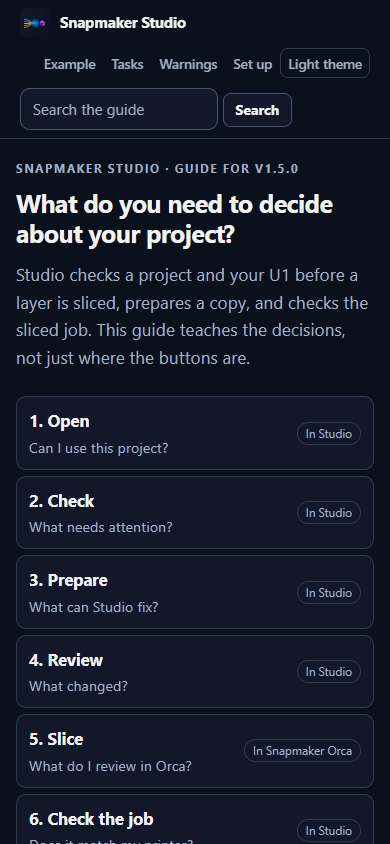
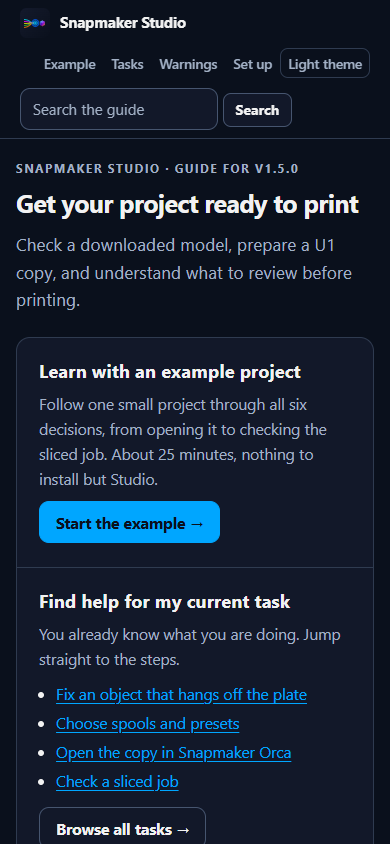
docs(guide): polish home page and workflow map
- Home: concrete heading and description; the three entry points come
  before the workflow map; on phones the map is folded behind a button
  and its seven stages stay reachable.
- Workflow map: fixed pixel lane geometry, lane labels clear of markers,
  connecting line routed so it never crosses stage text; e2e now fails on
  any overlap (also with a wide fallback font).

Verified: check.mjs 49/49; e2e.mjs 1454/1454 (Edge, desktop + phone, both themes).

diff --git a/site/guide/public/index.html b/site/guide/public/index.html
@@ -39,24 +39,24 @@
 <article class="page home" id="home" data-page="home" data-type="home" aria-labelledby="home-h">
   <header class="home-head">
     <p class="eyebrow">Snapmaker Studio · guide for v1.5.0</p>
-    <h2 class="ptitle" id="home-h" tabindex="-1">What do you need to decide about your project?</h2>
-    <p class="lead">Studio checks a project and your U1 before a layer is sliced, prepares a copy, and checks the sliced job. This guide teaches the decisions, not just where the buttons are.</p>
+    <h2 class="ptitle" id="home-h" tabindex="-1">Get your project ready to print</h2>
+    <p class="lead">Check a downloaded model, prepare a U1 copy, and understand what to review before printing.</p>
   </header>
-  <section class="home-map" aria-label="The whole job"><h3 class="vh">The whole job</h3><nav class="wfmap" aria-label="The job, stage by stage: Studio, then Snapmaker Orca, then Studio again, then your printer">
+  <section class="doors" aria-label="Where to start">
+    <div class="door door-example"><h3>Learn with an example project</h3><p>Follow one small project through all six decisions, from opening it to checking the sliced job. About 25 minutes, nothing to install but Studio.</p><a class="btn btn-primary js-nav" href="#path-open">Start the example →</a></div><div class="door door-task"><h3>Find help for my current task</h3><p>You already know what you are doing. Jump straight to the steps.</p><ul><li><a href="#task-move-onto-plate">Fix an object that hangs off the plate</a></li><li><a href="#task-project-materials">Choose spools and presets</a></li><li><a href="#task-open-in-orca">Open the copy in Snapmaker Orca</a></li><li><a href="#task-check-sliced-job">Check a sliced job</a></li></ul><a class="btn  js-nav" href="#tasks">Browse all tasks →</a></div><div class="door door-problem"><h3>Understand a warning or problem</h3><p>Studio is careful about what it knows. Look up what a message means and how sure Studio is.</p><ul><li><a href="#problem-studio-cant-tell">“Studio can’t tell”</a></li><li><a href="#problem-needs-attention">NEEDS ATTENTION</a></li><li><a href="#problem-printer-not-found">Printer not found</a></li><li><a href="#problem-manual-check-in-orca">Manual check in Orca required</a></li></ul><a class="btn  js-nav" href="#problems">See all warnings →</a></div>
+  </section>
+  <section class="home-map" aria-label="The whole job"><details class="map-fold" open><summary>See the whole job<small>Studio, Snapmaker Orca and your printer, stage by stage</small></summary><nav class="wfmap" aria-label="The job, stage by stage: Studio, then Snapmaker Orca, then Studio again, then your printer">
   <div class="wf-board">
     <div class="wf-lane wf-lane-studio"><span>In Studio</span></div><div class="wf-lane wf-lane-orca"><span>In Snapmaker Orca</span></div><div class="wf-lane wf-lane-printer"><span>At the printer</span></div>
-    <svg class="wf-svg" viewBox="0 0 1000 250" preserveAspectRatio="none" aria-hidden="true" focusable="false">
-      <path d="M 0 34 C 40 34, 52 62, 74 62" stroke="#00E1FF" stroke-width="2" fill="none" opacity=".85" vector-effect="non-scaling-stroke"/><path d="M 0 43 C 40 43, 52 62, 74 62" stroke="#FF00FF" stroke-width="2" fill="none" opacity=".85" vector-effect="non-scaling-stroke"/><path d="M 0 52 C 40 52, 52 62, 74 62" stroke="#FFFF00" stroke-width="2" fill="none" opacity=".85" vector-effect="non-scaling-stroke"/><path d="M 0 61 C 40 61, 52 62, 74 62" stroke="#0000FF" stroke-width="2" fill="none" opacity=".85" vector-effect="non-scaling-stroke"/><path d="M 0 70 C 40 70, 52 62, 74 62" stroke="#32CD32" stroke-width="2" fill="none" opacity=".85" vector-effect="non-scaling-stroke"/><path d="M 0 79 C 40 79, 52 62, 74 62" stroke="#FF8500" stroke-width="2" fill="none" opacity=".85" vector-effect="non-scaling-stroke"/><path d="M 0 88 C 40 88, 52 62, 74 62" stroke="#8F00FF" stroke-width="2" fill="none" opacity=".85" vector-effect="non-scaling-stroke"/>
-      <path class="wf-line" d="M 96 62 L 236 62 L 376 62 L 516 62 C 592 62, 592 125, 668 125 C 734 125, 734 62, 800 62 C 861 62, 861 188, 922 188" fill="none" vector-effect="non-scaling-stroke"/>
+    <svg class="wf-svg" viewBox="0 0 1000 420" preserveAspectRatio="none" aria-hidden="true" focusable="false">
+      <path d="M 0 16 C 40 16, 52 43, 74 43" stroke="#00E1FF" stroke-width="2" fill="none" opacity=".85" vector-effect="non-scaling-stroke"/><path d="M 0 25 C 40 25, 52 43, 74 43" stroke="#FF00FF" stroke-width="2" fill="none" opacity=".85" vector-effect="non-scaling-stroke"/><path d="M 0 34 C 40 34, 52 43, 74 43" stroke="#FFFF00" stroke-width="2" fill="none" opacity=".85" vector-effect="non-scaling-stroke"/><path d="M 0 43 C 40 43, 52 43, 74 43" stroke="#0000FF" stroke-width="2" fill="none" opacity=".85" vector-effect="non-scaling-stroke"/><path d="M 0 52 C 40 52, 52 43, 74 43" stroke="#32CD32" stroke-width="2" fill="none" opacity=".85" vector-effect="non-scaling-stroke"/><path d="M 0 61 C 40 61, 52 43, 74 43" stroke="#FF8500" stroke-width="2" fill="none" opacity=".85" vector-effect="non-scaling-stroke"/><path d="M 0 70 C 40 70, 52 43, 74 43" stroke="#8F00FF" stroke-width="2" fill="none" opacity=".85" vector-effect="non-scaling-stroke"/>
+      <path class="wf-line" d="M 96 43 L 236 43 L 376 43 L 516 43 L 623 43 C 645 43, 646 183, 668 183 C 690 183, 691 43, 713 43 L 800 43 L 877 43 C 899 43, 900 323, 922 323" fill="none" vector-effect="non-scaling-stroke"/>
     </svg>
     <a class="wf-node wf-studio wf-p0" href="#path-open" data-stage="open"><span class="wf-n" aria-hidden="true">1</span><span class="wf-t">Open</span><span class="wf-q">Can I use this project?</span></a><a class="wf-node wf-studio wf-p1" href="#path-check" data-stage="check"><span class="wf-n" aria-hidden="true">2</span><span class="wf-t">Check</span><span class="wf-q">What needs attention?</span></a><a class="wf-node wf-studio wf-p2" href="#path-prepare" data-stage="prepare"><span class="wf-n" aria-hidden="true">3</span><span class="wf-t">Prepare</span><span class="wf-q">What can Studio fix?</span></a><a class="wf-node wf-studio wf-p3" href="#path-review" data-stage="review"><span class="wf-n" aria-hidden="true">4</span><span class="wf-t">Review</span><span class="wf-q">What changed?</span></a><a class="wf-node wf-orca wf-p4" href="#path-orca" data-stage="orca"><span class="wf-n" aria-hidden="true">5</span><span class="wf-t">Slice</span><span class="wf-q">What do I review in Orca?</span></a><a class="wf-node wf-studio wf-p5" href="#path-job" data-stage="job"><span class="wf-n" aria-hidden="true">6</span><span class="wf-t">Check the job</span><span class="wf-q">Does it match my printer?</span></a><a class="wf-node wf-printer wf-p6" href="#task-printer-controls" data-stage="print"><span class="wf-n" aria-hidden="true">★</span><span class="wf-t">Print</span><span class="wf-q">You, at the printer</span></a>
   </div>
   <ol class="wf-list"><li><a href="#path-open"><b>1. Open</b> <span>Can I use this project?</span> <i>In Studio</i></a></li><li><a href="#path-check"><b>2. Check</b> <span>What needs attention?</span> <i>In Studio</i></a></li><li><a href="#path-prepare"><b>3. Prepare</b> <span>What can Studio fix?</span> <i>In Studio</i></a></li><li><a href="#path-review"><b>4. Review</b> <span>What changed?</span> <i>In Studio</i></a></li><li><a href="#path-orca"><b>5. Slice</b> <span>What do I review in Orca?</span> <i>In Snapmaker Orca</i></a></li><li><a href="#path-job"><b>6. Check the job</b> <span>Does it match my printer?</span> <i>In Studio</i></a></li><li><a href="#task-printer-controls"><b>★. Print</b> <span>You, at the printer</span> <i>At the printer</i></a></li></ol>
-</nav>
+</nav></details>
     <p class="map-key">Studio works on your computer. <strong>Snapmaker Orca slices.</strong> You start the print at the printer. Studio never slices and never starts a print on its own.</p></section>
-  <section class="doors" aria-label="Where to start">
-    <div class="door door-example"><h3>Learn with an example project</h3><p>Follow one small project through all six decisions, from opening it to checking the sliced job. About 25 minutes, nothing to install but Studio.</p><a class="btn btn-primary js-nav" href="#path-open">Start the example →</a></div><div class="door door-task"><h3>Find help for my current task</h3><p>You already know what you are doing. Jump straight to the steps.</p><ul><li><a href="#task-move-onto-plate">Fix an object that hangs off the plate</a></li><li><a href="#task-project-materials">Choose spools and presets</a></li><li><a href="#task-open-in-orca">Open the copy in Snapmaker Orca</a></li><li><a href="#task-check-sliced-job">Check a sliced job</a></li></ul><a class="btn  js-nav" href="#tasks">Browse all tasks →</a></div><div class="door door-problem"><h3>Understand a warning or problem</h3><p>Studio is careful about what it knows. Look up what a message means and how sure Studio is.</p><ul><li><a href="#problem-studio-cant-tell">“Studio can’t tell”</a></li><li><a href="#problem-needs-attention">NEEDS ATTENTION</a></li><li><a href="#problem-printer-not-found">Printer not found</a></li><li><a href="#problem-manual-check-in-orca">Manual check in Orca required</a></li></ul><a class="btn  js-nav" href="#problems">See all warnings →</a></div>
-  </section>
   <section class="home-foot" aria-label="Before you start">
     <div><h3>Not installed yet?</h3><p><a href="#setup">Install and open Studio</a> — about ten minutes. If Studio is already installed, skip it: the example starts from opening a file.</p></div>
     <div><h3>Optional tools</h3><p>Cost, scale, print quality, batch, model sites and spool providers are under <a href="#tasks">Tasks</a>, marked optional, so they never interrupt the main path.</p></div>
@@ -69,9 +69,9 @@
     <nav class="wfmap compact" aria-label="The job, stage by stage: Studio, then Snapmaker Orca, then Studio again, then your printer">
   <div class="wf-board">
     <div class="wf-lane wf-lane-studio"><span>In Studio</span></div><div class="wf-lane wf-lane-orca"><span>In Snapmaker Orca</span></div><div class="wf-lane wf-lane-printer"><span>At the printer</span></div>
-    <svg class="wf-svg" viewBox="0 0 1000 250" preserveAspectRatio="none" aria-hidden="true" focusable="false">
-      <path d="M 0 34 C 40 34, 52 62, 74 62" stroke="#00E1FF" stroke-width="2" fill="none" opacity=".85" vector-effect="non-scaling-stroke"/><path d="M 0 43 C 40 43, 52 62, 74 62" stroke="#FF00FF" stroke-width="2" fill="none" opacity=".85" vector-effect="non-scaling-stroke"/><path d="M 0 52 C 40 52, 52 62, 74 62" stroke="#FFFF00" stroke-width="2" fill="none" opacity=".85" vector-effect="non-scaling-stroke"/><path d="M 0 61 C 40 61, 52 62, 74 62" stroke="#0000FF" stroke-width="2" fill="none" opacity=".85" vector-effect="non-scaling-stroke"/><path d="M 0 70 C 40 70, 52 62, 74 62" stroke="#32CD32" stroke-width="2" fill="none" opacity=".85" vector-effect="non-scaling-stroke"/><path d="M 0 79 C 40 79, 52 62, 74 62" stroke="#FF8500" stroke-width="2" fill="none" opacity=".85" vector-effect="non-scaling-stroke"/><path d="M 0 88 C 40 88, 52 62, 74 62" stroke="#8F00FF" stroke-width="2" fill="none" opacity=".85" vector-effect="non-scaling-stroke"/>
-      <path class="wf-line" d="M 96 62 L 236 62 L 376 62 L 516 62 C 592 62, 592 125, 668 125 C 734 125, 734 62, 800 62 C 861 62, 861 188, 922 188" fill="none" vector-effect="non-scaling-stroke"/>
+    <svg class="wf-svg" viewBox="0 0 1000 264" preserveAspectRatio="none" aria-hidden="true" focusable="false">
+      <path d="M 0 6 C 40 6, 52 33, 74 33" stroke="#00E1FF" stroke-width="2" fill="none" opacity=".85" vector-effect="non-scaling-stroke"/><path d="M 0 15 C 40 15, 52 33, 74 33" stroke="#FF00FF" stroke-width="2" fill="none" opacity=".85" vector-effect="non-scaling-stroke"/><path d="M 0 24 C 40 24, 52 33, 74 33" stroke="#FFFF00" stroke-width="2" fill="none" opacity=".85" vector-effect="non-scaling-stroke"/><path d="M 0 33 C 40 33, 52 33, 74 33" stroke="#0000FF" stroke-width="2" fill="none" opacity=".85" vector-effect="non-scaling-stroke"/><path d="M 0 42 C 40 42, 52 33, 74 33" stroke="#32CD32" stroke-width="2" fill="none" opacity=".85" vector-effect="non-scaling-stroke"/><path d="M 0 51 C 40 51, 52 33, 74 33" stroke="#FF8500" stroke-width="2" fill="none" opacity=".85" vector-effect="non-scaling-stroke"/><path d="M 0 60 C 40 60, 52 33, 74 33" stroke="#8F00FF" stroke-width="2" fill="none" opacity=".85" vector-effect="non-scaling-stroke"/>
+      <path class="wf-line" d="M 96 33 L 236 33 L 376 33 L 516 33 L 623 33 C 645 33, 646 121, 668 121 C 690 121, 691 33, 713 33 L 800 33 L 877 33 C 899 33, 900 209, 922 209" fill="none" vector-effect="non-scaling-stroke"/>
     </svg>
     <a class="wf-node wf-studio wf-p0 is-current" href="#path-open" data-stage="open" aria-current="step"><span class="wf-n" aria-hidden="true">1</span><span class="wf-t">Open</span></a><a class="wf-node wf-studio wf-p1" href="#path-check" data-stage="check"><span class="wf-n" aria-hidden="true">2</span><span class="wf-t">Check</span></a><a class="wf-node wf-studio wf-p2" href="#path-prepare" data-stage="prepare"><span class="wf-n" aria-hidden="true">3</span><span class="wf-t">Prepare</span></a><a class="wf-node wf-studio wf-p3" href="#path-review" data-stage="review"><span class="wf-n" aria-hidden="true">4</span><span class="wf-t">Review</span></a><a class="wf-node wf-orca wf-p4" href="#path-orca" data-stage="orca"><span class="wf-n" aria-hidden="true">5</span><span class="wf-t">Slice</span></a><a class="wf-node wf-studio wf-p5" href="#path-job" data-stage="job"><span class="wf-n" aria-hidden="true">6</span><span class="wf-t">Check the job</span></a><a class="wf-node wf-printer wf-p6" href="#task-printer-controls" data-stage="print"><span class="wf-n" aria-hidden="true">★</span><span class="wf-t">Print</span></a>
   </div>
@@ -129,9 +129,9 @@
     <nav class="wfmap compact" aria-label="The job, stage by stage: Studio, then Snapmaker Orca, then Studio again, then your printer">
   <div class="wf-board">
     <div class="wf-lane wf-lane-studio"><span>In Studio</span></div><div class="wf-lane wf-lane-orca"><span>In Snapmaker Orca</span></div><div class="wf-lane wf-lane-printer"><span>At the printer</span></div>
-    <svg class="wf-svg" viewBox="0 0 1000 250" preserveAspectRatio="none" aria-hidden="true" focusable="false">
-      <path d="M 0 34 C 40 34, 52 62, 74 62" stroke="#00E1FF" stroke-width="2" fill="none" opacity=".85" vector-effect="non-scaling-stroke"/><path d="M 0 43 C 40 43, 52 62, 74 62" stroke="#FF00FF" stroke-width="2" fill="none" opacity=".85" vector-effect="non-scaling-stroke"/><path d="M 0 52 C 40 52, 52 62, 74 62" stroke="#FFFF00" stroke-width="2" fill="none" opacity=".85" vector-effect="non-scaling-stroke"/><path d="M 0 61 C 40 61, 52 62, 74 62" stroke="#0000FF" stroke-width="2" fill="none" opacity=".85" vector-effect="non-scaling-stroke"/><path d="M 0 70 C 40 70, 52 62, 74 62" stroke="#32CD32" stroke-width="2" fill="none" opacity=".85" vector-effect="non-scaling-stroke"/><path d="M 0 79 C 40 79, 52 62, 74 62" stroke="#FF8500" stroke-width="2" fill="none" opacity=".85" vector-effect="non-scaling-stroke"/><path d="M 0 88 C 40 88, 52 62, 74 62" stroke="#8F00FF" stroke-width="2" fill="none" opacity=".85" vector-effect="non-scaling-stroke"/>
-      <path class="wf-line" d="M 96 62 L 236 62 L 376 62 L 516 62 C 592 62, 592 125, 668 125 C 734 125, 734 62, 800 62 C 861 62, 861 188, 922 188" fill="none" vector-effect="non-scaling-stroke"/>
+    <svg class="wf-svg" viewBox="0 0 1000 264" preserveAspectRatio="none" aria-hidden="true" focusable="false">
+      <path d="M 0 6 C 40 6, 52 33, 74 33" stroke="#00E1FF" stroke-width="2" fill="none" opacity=".85" vector-effect="non-scaling-stroke"/><path d="M 0 15 C 40 15, 52 33, 74 33" stroke="#FF00FF" stroke-width="2" fill="none" opacity=".85" vector-effect="non-scaling-stroke"/><path d="M 0 24 C 40 24, 52 33, 74 33" stroke="#FFFF00" stroke-width="2" fill="none" opacity=".85" vector-effect="non-scaling-stroke"/><path d="M 0 33 C 40 33, 52 33, 74 33" stroke="#0000FF" stroke-width="2" fill="none" opacity=".85" vector-effect="non-scaling-stroke"/><path d="M 0 42 C 40 42, 52 33, 74 33" stroke="#32CD32" stroke-width="2" fill="none" opacity=".85" vector-effect="non-scaling-stroke"/><path d="M 0 51 C 40 51, 52 33, 74 33" stroke="#FF8500" stroke-width="2" fill="none" opacity=".85" vector-effect="non-scaling-stroke"/><path d="M 0 60 C 40 60, 52 33, 74 33" stroke="#8F00FF" stroke-width="2" fill="none" opacity=".85" vector-effect="non-scaling-stroke"/>
+      <path class="wf-line" d="M 96 33 L 236 33 L 376 33 L 516 33 L 623 33 C 645 33, 646 121, 668 121 C 690 121, 691 33, 713 33 L 800 33 L 877 33 C 899 33, 900 209, 922 209" fill="none" vector-effect="non-scaling-stroke"/>
     </svg>
     <a class="wf-node wf-studio wf-p0" href="#path-open" data-stage="open"><span class="wf-n" aria-hidden="true">1</span><span class="wf-t">Open</span></a><a class="wf-node wf-studio wf-p1 is-current" href="#path-check" data-stage="check" aria-current="step"><span class="wf-n" aria-hidden="true">2</span><span class="wf-t">Check</span></a><a class="wf-node wf-studio wf-p2" href="#path-prepare" data-stage="prepare"><span class="wf-n" aria-hidden="true">3</span><span class="wf-t">Prepare</span></a><a class="wf-node wf-studio wf-p3" href="#path-review" data-stage="review"><span class="wf-n" aria-hidden="true">4</span><span class="wf-t">Review</span></a><a class="wf-node wf-orca wf-p4" href="#path-orca" data-stage="orca"><span class="wf-n" aria-hidden="true">5</span><span class="wf-t">Slice</span></a><a class="wf-node wf-studio wf-p5" href="#path-job" data-stage="job"><span class="wf-n" aria-hidden="true">6</span><span class="wf-t">Check the job</span></a><a class="wf-node wf-printer wf-p6" href="#task-printer-controls" data-stage="print"><span class="wf-n" aria-hidden="true">★</span><span class="wf-t">Print</span></a>
   </div>
@@ -189,9 +189,9 @@
     <nav class="wfmap compact" aria-label="The job, stage by stage: Studio, then Snapmaker Orca, then Studio again, then your printer">
   <div class="wf-board">
     <div class="wf-lane wf-lane-studio"><span>In Studio</span></div><div class="wf-lane wf-lane-orca"><span>In Snapmaker Orca</span></div><div class="wf-lane wf-lane-printer"><span>At the printer</span></div>
-    <svg class="wf-svg" viewBox="0 0 1000 250" preserveAspectRatio="none" aria-hidden="true" focusable="false">
-      <path d="M 0 34 C 40 34, 52 62, 74 62" stroke="#00E1FF" stroke-width="2" fill="none" opacity=".85" vector-effect="non-scaling-stroke"/><path d="M 0 43 C 40 43, 52 62, 74 62" stroke="#FF00FF" stroke-width="2" fill="none" opacity=".85" vector-effect="non-scaling-stroke"/><path d="M 0 52 C 40 52, 52 62, 74 62" stroke="#FFFF00" stroke-width="2" fill="none" opacity=".85" vector-effect="non-scaling-stroke"/><path d="M 0 61 C 40 61, 52 62, 74 62" stroke="#0000FF" stroke-width="2" fill="none" opacity=".85" vector-effect="non-scaling-stroke"/><path d="M 0 70 C 40 70, 52 62, 74 62" stroke="#32CD32" stroke-width="2" fill="none" opacity=".85" vector-effect="non-scaling-stroke"/><path d="M 0 79 C 40 79, 52 62, 74 62" stroke="#FF8500" stroke-width="2" fill="none" opacity=".85" vector-effect="non-scaling-stroke"/><path d="M 0 88 C 40 88, 52 62, 74 62" stroke="#8F00FF" stroke-width="2" fill="none" opacity=".85" vector-effect="non-scaling-stroke"/>
-      <path class="wf-line" d="M 96 62 L 236 62 L 376 62 L 516 62 C 592 62, 592 125, 668 125 C 734 125, 734 62, 800 62 C 861 62, 861 188, 922 188" fill="none" vector-effect="non-scaling-stroke"/>
+    <svg class="wf-svg" viewBox="0 0 1000 264" preserveAspectRatio="none" aria-hidden="true" focusable="false">
+      <path d="M 0 6 C 40 6, 52 33, 74 33" stroke="#00E1FF" stroke-width="2" fill="none" opacity=".85" vector-effect="non-scaling-stroke"/><path d="M 0 15 C 40 15, 52 33, 74 33" stroke="#FF00FF" stroke-width="2" fill="none" opacity=".85" vector-effect="non-scaling-stroke"/><path d="M 0 24 C 40 24, 52 33, 74 33" stroke="#FFFF00" stroke-width="2" fill="none" opacity=".85" vector-effect="non-scaling-stroke"/><path d="M 0 33 C 40 33, 52 33, 74 33" stroke="#0000FF" stroke-width="2" fill="none" opacity=".85" vector-effect="non-scaling-stroke"/><path d="M 0 42 C 40 42, 52 33, 74 33" stroke="#32CD32" stroke-width="2" fill="none" opacity=".85" vector-effect="non-scaling-stroke"/><path d="M 0 51 C 40 51, 52 33, 74 33" stroke="#FF8500" stroke-width="2" fill="none" opacity=".85" vector-effect="non-scaling-stroke"/><path d="M 0 60 C 40 60, 52 33, 74 33" stroke="#8F00FF" stroke-width="2" fill="none" opacity=".85" vector-effect="non-scaling-stroke"/>
+      <path class="wf-line" d="M 96 33 L 236 33 L 376 33 L 516 33 L 623 33 C 645 33, 646 121, 668 121 C 690 121, 691 33, 713 33 L 800 33 L 877 33 C 899 33, 900 209, 922 209" fill="none" vector-effect="non-scaling-stroke"/>
     </svg>
     <a class="wf-node wf-studio wf-p0" href="#path-open" data-stage="open"><span class="wf-n" aria-hidden="true">1</span><span class="wf-t">Open</span></a><a class="wf-node wf-studio wf-p1" href="#path-check" data-stage="check"><span class="wf-n" aria-hidden="true">2</span><span class="wf-t">Check</span></a><a class="wf-node wf-studio wf-p2 is-current" href="#path-prepare" data-stage="prepare" aria-current="step"><span class="wf-n" aria-hidden="true">3</span><span class="wf-t">Prepare</span></a><a class="wf-node wf-studio wf-p3" href="#path-review" data-stage="review"><span class="wf-n" aria-hidden="true">4</span><span class="wf-t">Review</span></a><a class="wf-node wf-orca wf-p4" href="#path-orca" data-stage="orca"><span class="wf-n" aria-hidden="true">5</span><span class="wf-t">Slice</span></a><a class="wf-node wf-studio wf-p5" href="#path-job" data-stage="job"><span class="wf-n" aria-hidden="true">6</span><span class="wf-t">Check the job</span></a><a class="wf-node wf-printer wf-p6" href="#task-printer-controls" data-stage="print"><span class="wf-n" aria-hidden="true">★</span><span class="wf-t">Print</span></a>
   </div>
@@ -290,9 +290,9 @@
     <nav class="wfmap compact" aria-label="The job, stage by stage: Studio, then Snapmaker Orca, then Studio again, then your printer">
   <div class="wf-board">
     <div class="wf-lane wf-lane-studio"><span>In Studio</span></div><div class="wf-lane wf-lane-orca"><span>In Snapmaker Orca</span></div><div class="wf-lane wf-lane-printer"><span>At the printer</span></div>
-    <svg class="wf-svg" viewBox="0 0 1000 250" preserveAspectRatio="none" aria-hidden="true" focusable="false">
-      <path d="M 0 34 C 40 34, 52 62, 74 62" stroke="#00E1FF" stroke-width="2" fill="none" opacity=".85" vector-effect="non-scaling-stroke"/><path d="M 0 43 C 40 43, 52 62, 74 62" stroke="#FF00FF" stroke-width="2" fill="none" opacity=".85" vector-effect="non-scaling-stroke"/><path d="M 0 52 C 40 52, 52 62, 74 62" stroke="#FFFF00" stroke-width="2" fill="none" opacity=".85" vector-effect="non-scaling-stroke"/><path d="M 0 61 C 40 61, 52 62, 74 62" stroke="#0000FF" stroke-width="2" fill="none" opacity=".85" vector-effect="non-scaling-stroke"/><path d="M 0 70 C 40 70, 52 62, 74 62" stroke="#32CD32" stroke-width="2" fill="none" opacity=".85" vector-effect="non-scaling-stroke"/><path d="M 0 79 C 40 79, 52 62, 74 62" stroke="#FF8500" stroke-width="2" fill="none" opacity=".85" vector-effect="non-scaling-stroke"/><path d="M 0 88 C 40 88, 52 62, 74 62" stroke="#8F00FF" stroke-width="2" fill="none" opacity=".85" vector-effect="non-scaling-stroke"/>
-      <path class="wf-line" d="M 96 62 L 236 62 L 376 62 L 516 62 C 592 62, 592 125, 668 125 C 734 125, 734 62, 800 62 C 861 62, 861 188, 922 188" fill="none" vector-effect="non-scaling-stroke"/>
+    <svg class="wf-svg" viewBox="0 0 1000 264" preserveAspectRatio="none" aria-hidden="true" focusable="false">
+      <path d="M 0 6 C 40 6, 52 33, 74 33" stroke="#00E1FF" stroke-width="2" fill="none" opacity=".85" vector-effect="non-scaling-stroke"/><path d="M 0 15 C 40 15, 52 33, 74 33" stroke="#FF00FF" stroke-width="2" fill="none" opacity=".85" vector-effect="non-scaling-stroke"/><path d="M 0 24 C 40 24, 52 33, 74 33" stroke="#FFFF00" stroke-width="2" fill="none" opacity=".85" vector-effect="non-scaling-stroke"/><path d="M 0 33 C 40 33, 52 33, 74 33" stroke="#0000FF" stroke-width="2" fill="none" opacity=".85" vector-effect="non-scaling-stroke"/><path d="M 0 42 C 40 42, 52 33, 74 33" stroke="#32CD32" stroke-width="2" fill="none" opacity=".85" vector-effect="non-scaling-stroke"/><path d="M 0 51 C 40 51, 52 33, 74 33" stroke="#FF8500" stroke-width="2" fill="none" opacity=".85" vector-effect="non-scaling-stroke"/><path d="M 0 60 C 40 60, 52 33, 74 33" stroke="#8F00FF" stroke-width="2" fill="none" opacity=".85" vector-effect="non-scaling-stroke"/>
+      <path class="wf-line" d="M 96 33 L 236 33 L 376 33 L 516 33 L 623 33 C 645 33, 646 121, 668 121 C 690 121, 691 33, 713 33 L 800 33 L 877 33 C 899 33, 900 209, 922 209" fill="none" vector-effect="non-scaling-stroke"/>
     </svg>
     <a class="wf-node wf-studio wf-p0" href="#path-open" data-stage="open"><span class="wf-n" aria-hidden="true">1</span><span class="wf-t">Open</span></a><a class="wf-node wf-studio wf-p1" href="#path-check" data-stage="check"><span class="wf-n" aria-hidden="true">2</span><span class="wf-t">Check</span></a><a class="wf-node wf-studio wf-p2" href="#path-prepare" data-stage="prepare"><span class="wf-n" aria-hidden="true">3</span><span class="wf-t">Prepare</span></a><a class="wf-node wf-studio wf-p3 is-current" href="#path-review" data-stage="review" aria-current="step"><span class="wf-n" aria-hidden="true">4</span><span class="wf-t">Review</span></a><a class="wf-node wf-orca wf-p4" href="#path-orca" data-stage="orca"><span class="wf-n" aria-hidden="true">5</span><span class="wf-t">Slice</span></a><a class="wf-node wf-studio wf-p5" href="#path-job" data-stage="job"><span class="wf-n" aria-hidden="true">6</span><span class="wf-t">Check the job</span></a><a class="wf-node wf-printer wf-p6" href="#task-printer-controls" data-stage="print"><span class="wf-n" aria-hidden="true">★</span><span class="wf-t">Print</span></a>
   </div>
@@ -357,9 +357,9 @@
     <nav class="wfmap compact" aria-label="The job, stage by stage: Studio, then Snapmaker Orca, then Studio again, then your printer">
   <div class="wf-board">
     <div class="wf-lane wf-lane-studio"><span>In Studio</span></div><div class="wf-lane wf-lane-orca"><span>In Snapmaker Orca</span></div><div class="wf-lane wf-lane-printer"><span>At the printer</span></div>
-    <svg class="wf-svg" viewBox="0 0 1000 250" preserveAspectRatio="none" aria-hidden="true" focusable="false">
-      <path d="M 0 34 C 40 34, 52 62, 74 62" stroke="#00E1FF" stroke-width="2" fill="none" opacity=".85" vector-effect="non-scaling-stroke"/><path d="M 0 43 C 40 43, 52 62, 74 62" stroke="#FF00FF" stroke-width="2" fill="none" opacity=".85" vector-effect="non-scaling-stroke"/><path d="M 0 52 C 40 52, 52 62, 74 62" stroke="#FFFF00" stroke-width="2" fill="none" opacity=".85" vector-effect="non-scaling-stroke"/><path d="M 0 61 C 40 61, 52 62, 74 62" stroke="#0000FF" stroke-width="2" fill="none" opacity=".85" vector-effect="non-scaling-stroke"/><path d="M 0 70 C 40 70, 52 62, 74 62" stroke="#32CD32" stroke-width="2" fill="none" opacity=".85" vector-effect="non-scaling-stroke"/><path d="M 0 79 C 40 79, 52 62, 74 62" stroke="#FF8500" stroke-width="2" fill="none" opacity=".85" vector-effect="non-scaling-stroke"/><path d="M 0 88 C 40 88, 52 62, 74 62" stroke="#8F00FF" stroke-width="2" fill="none" opacity=".85" vector-effect="non-scaling-stroke"/>
-      <path class="wf-line" d="M 96 62 L 236 62 L 376 62 L 516 62 C 592 62, 592 125, 668 125 C 734 125, 734 62, 800 62 C 861 62, 861 188, 922 188" fill="none" vector-effect="non-scaling-stroke"/>
+    <svg class="wf-svg" viewBox="0 0 1000 264" preserveAspectRatio="none" aria-hidden="true" focusable="false">
+      <path d="M 0 6 C 40 6, 52 33, 74 33" stroke="#00E1FF" stroke-width="2" fill="none" opacity=".85" vector-effect="non-scaling-stroke"/><path d="M 0 15 C 40 15, 52 33, 74 33" stroke="#FF00FF" stroke-width="2" fill="none" opacity=".85" vector-effect="non-scaling-stroke"/><path d="M 0 24 C 40 24, 52 33, 74 33" stroke="#FFFF00" stroke-width="2" fill="none" opacity=".85" vector-effect="non-scaling-stroke"/><path d="M 0 33 C 40 33, 52 33, 74 33" stroke="#0000FF" stroke-width="2" fill="none" opacity=".85" vector-effect="non-scaling-stroke"/><path d="M 0 42 C 40 42, 52 33, 74 33" stroke="#32CD32" stroke-width="2" fill="none" opacity=".85" vector-effect="non-scaling-stroke"/><path d="M 0 51 C 40 51, 52 33, 74 33" stroke="#FF8500" stroke-width="2" fill="none" opacity=".85" vector-effect="non-scaling-stroke"/><path d="M 0 60 C 40 60, 52 33, 74 33" stroke="#8F00FF" stroke-width="2" fill="none" opacity=".85" vector-effect="non-scaling-stroke"/>
+      <path class="wf-line" d="M 96 33 L 236 33 L 376 33 L 516 33 L 623 33 C 645 33, 646 121, 668 121 C 690 121, 691 33, 713 33 L 800 33 L 877 33 C 899 33, 900 209, 922 209" fill="none" vector-effect="non-scaling-stroke"/>
     </svg>
     <a class="wf-node wf-studio wf-p0" href="#path-open" data-stage="open"><span class="wf-n" aria-hidden="true">1</span><span class="wf-t">Open</span></a><a class="wf-node wf-studio wf-p1" href="#path-check" data-stage="check"><span class="wf-n" aria-hidden="true">2</span><span class="wf-t">Check</span></a><a class="wf-node wf-studio wf-p2" href="#path-prepare" data-stage="prepare"><span class="wf-n" aria-hidden="true">3</span><span class="wf-t">Prepare</span></a><a class="wf-node wf-studio wf-p3" href="#path-review" data-stage="review"><span class="wf-n" aria-hidden="true">4</span><span class="wf-t">Review</span></a><a class="wf-node wf-orca wf-p4 is-current" href="#path-orca" data-stage="orca" aria-current="step"><span class="wf-n" aria-hidden="true">5</span><span class="wf-t">Slice</span></a><a class="wf-node wf-studio wf-p5" href="#path-job" data-stage="job"><span class="wf-n" aria-hidden="true">6</span><span class="wf-t">Check the job</span></a><a class="wf-node wf-printer wf-p6" href="#task-printer-controls" data-stage="print"><span class="wf-n" aria-hidden="true">★</span><span class="wf-t">Print</span></a>
   </div>
@@ -411,9 +411,9 @@
     <nav class="wfmap compact" aria-label="The job, stage by stage: Studio, then Snapmaker Orca, then Studio again, then your printer">
   <div class="wf-board">
     <div class="wf-lane wf-lane-studio"><span>In Studio</span></div><div class="wf-lane wf-lane-orca"><span>In Snapmaker Orca</span></div><div class="wf-lane wf-lane-printer"><span>At the printer</span></div>
-    <svg class="wf-svg" viewBox="0 0 1000 250" preserveAspectRatio="none" aria-hidden="true" focusable="false">
-      <path d="M 0 34 C 40 34, 52 62, 74 62" stroke="#00E1FF" stroke-width="2" fill="none" opacity=".85" vector-effect="non-scaling-stroke"/><path d="M 0 43 C 40 43, 52 62, 74 62" stroke="#FF00FF" stroke-width="2" fill="none" opacity=".85" vector-effect="non-scaling-stroke"/><path d="M 0 52 C 40 52, 52 62, 74 62" stroke="#FFFF00" stroke-width="2" fill="none" opacity=".85" vector-effect="non-scaling-stroke"/><path d="M 0 61 C 40 61, 52 62, 74 62" stroke="#0000FF" stroke-width="2" fill="none" opacity=".85" vector-effect="non-scaling-stroke"/><path d="M 0 70 C 40 70, 52 62, 74 62" stroke="#32CD32" stroke-width="2" fill="none" opacity=".85" vector-effect="non-scaling-stroke"/><path d="M 0 79 C 40 79, 52 62, 74 62" stroke="#FF8500" stroke-width="2" fill="none" opacity=".85" vector-effect="non-scaling-stroke"/><path d="M 0 88 C 40 88, 52 62, 74 62" stroke="#8F00FF" stroke-width="2" fill="none" opacity=".85" vector-effect="non-scaling-stroke"/>
-      <path class="wf-line" d="M 96 62 L 236 62 L 376 62 L 516 62 C 592 62, 592 125, 668 125 C 734 125, 734 62, 800 62 C 861 62, 861 188, 922 188" fill="none" vector-effect="non-scaling-stroke"/>
+    <svg class="wf-svg" viewBox="0 0 1000 264" preserveAspectRatio="none" aria-hidden="true" focusable="false">
+      <path d="M 0 6 C 40 6, 52 33, 74 33" stroke="#00E1FF" stroke-width="2" fill="none" opacity=".85" vector-effect="non-scaling-stroke"/><path d="M 0 15 C 40 15, 52 33, 74 33" stroke="#FF00FF" stroke-width="2" fill="none" opacity=".85" vector-effect="non-scaling-stroke"/><path d="M 0 24 C 40 24, 52 33, 74 33" stroke="#FFFF00" stroke-width="2" fill="none" opacity=".85" vector-effect="non-scaling-stroke"/><path d="M 0 33 C 40 33, 52 33, 74 33" stroke="#0000FF" stroke-width="2" fill="none" opacity=".85" vector-effect="non-scaling-stroke"/><path d="M 0 42 C 40 42, 52 33, 74 33" stroke="#32CD32" stroke-width="2" fill="none" opacity=".85" vector-effect="non-scaling-stroke"/><path d="M 0 51 C 40 51, 52 33, 74 33" stroke="#FF8500" stroke-width="2" fill="none" opacity=".85" vector-effect="non-scaling-stroke"/><path d="M 0 60 C 40 60, 52 33, 74 33" stroke="#8F00FF" stroke-width="2" fill="none" opacity=".85" vector-effect="non-scaling-stroke"/>
+      <path class="wf-line" d="M 96 33 L 236 33 L 376 33 L 516 33 L 623 33 C 645 33, 646 121, 668 121 C 690 121, 691 33, 713 33 L 800 33 L 877 33 C 899 33, 900 209, 922 209" fill="none" vector-effect="non-scaling-stroke"/>
     </svg>
     <a class="wf-node wf-studio wf-p0" href="#path-open" data-stage="open"><span class="wf-n" aria-hidden="true">1</span><span class="wf-t">Open</span></a><a class="wf-node wf-studio wf-p1" href="#path-check" data-stage="check"><span class="wf-n" aria-hidden="true">2</span><span class="wf-t">Check</span></a><a class="wf-node wf-studio wf-p2" href="#path-prepare" data-stage="prepare"><span class="wf-n" aria-hidden="true">3</span><span class="wf-t">Prepare</span></a><a class="wf-node wf-studio wf-p3" href="#path-review" data-stage="review"><span class="wf-n" aria-hidden="true">4</span><span class="wf-t">Review</span></a><a class="wf-node wf-orca wf-p4" href="#path-orca" data-stage="orca"><span class="wf-n" aria-hidden="true">5</span><span class="wf-t">Slice</span></a><a class="wf-node wf-studio wf-p5 is-current" href="#path-job" data-stage="job" aria-current="step"><span class="wf-n" aria-hidden="true">6</span><span class="wf-t">Check the job</span></a><a class="wf-node wf-printer wf-p6" href="#task-printer-controls" data-stage="print"><span class="wf-n" aria-hidden="true">★</span><span class="wf-t">Print</span></a>
   </div>

diff --git a/site/guide/public/assets/guide.css b/site/guide/public/assets/guide.css
@@ -113,15 +113,15 @@ a.chip:hover, button.chip:hover { border-color: var(--accent); color: var(--text
 
 /* workflow map: one job, three places */
 .wfmap { margin: 0; }
-.wf-board { position: relative; aspect-ratio: 1000 / 250; border: 1px solid var(--border); border-radius: 14px; background: var(--panel); overflow: hidden; }
-.wfmap.compact .wf-board { aspect-ratio: 1000 / 190; border-radius: 12px; }
+.wf-board { position: relative; height: 420px; border: 1px solid var(--border); border-radius: 14px; background: var(--panel); overflow: hidden; }
+.wfmap.compact .wf-board { height: 264px; border-radius: 12px; }
 .wf-svg { position: absolute; inset: 0; width: 100%; height: 100%; }
 .wf-line { stroke: var(--accent); stroke-width: 2.5; stroke-linecap: round; }
-.wf-lane { position: absolute; left: 0; right: 0; height: 24.8%; border-top: 1px solid var(--border); }
+.wf-lane { position: absolute; left: 0; right: 0; height: 140px; border-top: 1px solid var(--border); }
 .wf-lane span { position: absolute; left: 10px; top: 5px; font-size: 0.66rem; font-weight: 700; letter-spacing: 0.1em; text-transform: uppercase; color: var(--muted); }
 .wf-lane-studio { background: var(--accent-soft); }
 .wf-lane-orca { background: repeating-linear-gradient(135deg, transparent 0 9px, color-mix(in srgb, var(--muted) 10%, transparent) 9px 10px); }
-.wf-node { position: absolute; transform: translate(-50%, -50%); width: clamp(84px, 13.5%, 150px); display: flex; flex-direction: column; align-items: center; gap: 3px; text-align: center; text-decoration: none; color: var(--text); padding: 4px; border-radius: 10px; }
+.wf-node { position: absolute; transform: translateX(-50%); width: clamp(84px, 12.5%, 150px); display: flex; flex-direction: column; align-items: center; gap: 3px; text-align: center; text-decoration: none; color: var(--text); padding: 4px; border-radius: 10px; }
 .wf-node:hover { background: color-mix(in srgb, var(--panel) 70%, transparent); color: var(--text); }
 .wf-n { display: grid; place-items: center; width: 30px; height: 30px; font-weight: 800; font-size: 14px; border-radius: 50%; background: var(--accent); color: var(--accent-ink); border: 2px solid var(--bg); }
 .wf-orca .wf-n { border-radius: 8px; background: var(--panel); color: var(--text); border: 2px dashed var(--text); }
@@ -304,8 +304,6 @@ dialog.viewer::backdrop { background: rgba(4, 7, 14, 0.82); }
   .doors, .home-foot { grid-template-columns: minmax(0, 1fr); }
   .door { border-right: 0; border-bottom: 1px solid var(--border); } .door:last-child { border-bottom: 0; }
   .tlist, .plist { grid-template-columns: minmax(0, 1fr); }
-  .wf-board { display: none; }
-  .wf-list { display: block; }
   .means-table thead { position: absolute; width: 1px; height: 1px; overflow: hidden; clip: rect(0 0 0 0); }
   .means-table, .means-table tbody, .means-table tr, .means-table td { display: block; width: 100%; }
   .means-table tr { border: 1px solid var(--border); border-radius: 12px; margin-bottom: 10px; background: var(--panel); padding: 4px 0; }
@@ -330,11 +328,28 @@ dialog.viewer::backdrop { background: rgba(4, 7, 14, 0.82); }
 @media (prefers-reduced-motion: reduce) { html { scroll-behavior: auto; } *, *::before, *::after { animation: none !important; transition: none !important; } }
 @media (forced-colors: active) { .hs, .wf-n, .cert { border: 2px solid CanvasText; } }
 
-/* workflow map positions (static, so no inline styles are needed) */
-.wf-lane-studio { top: 12.4%; } .wf-lane-orca { top: 37.6%; } .wf-lane-printer { top: 62.8%; }
-.wf-node.wf-studio { top: 24.8%; } .wf-node.wf-orca { top: 50%; } .wf-node.wf-printer { top: 75.2%; }
+/* workflow map positions (static, so no inline styles are needed; y is in pixels, see GEO in tools/build.mjs) */
+.wf-lane-studio { top: 0; } .wf-lane-orca { top: 140px; } .wf-lane-printer { top: 280px; }
+.wf-node.wf-studio { top: 24px; } .wf-node.wf-orca { top: 164px; } .wf-node.wf-printer { top: 304px; }
+.wfmap.compact .wf-lane { height: 88px; } .wfmap.compact .wf-lane span { top: 3px; font-size: 0.6rem; }
+.wfmap.compact .wf-lane-orca { top: 88px; } .wfmap.compact .wf-lane-printer { top: 176px; }
+.wfmap.compact .wf-node.wf-studio { top: 14px; } .wfmap.compact .wf-node.wf-orca { top: 102px; } .wfmap.compact .wf-node.wf-printer { top: 190px; }
 .wf-p0 { left: 9.6%; } .wf-p1 { left: 23.6%; } .wf-p2 { left: 37.6%; } .wf-p3 { left: 51.6%; } .wf-p4 { left: 66.8%; } .wf-p5 { left: 80%; } .wf-p6 { left: 92.2%; }
 
 html:not(.js) .searchbar { display: none; }
 .wf-lane span { left: auto; right: 12px; }
 .ptitle:focus { outline: none; }
+
+@media (max-width: 960px) {
+  .wf-board { display: none; }
+  .wf-list { display: block; }
+}
+/* the home map folds on phones; on wide screens it is always open and the toggle is hidden */
+.map-fold > summary { cursor: pointer; font-weight: 700; padding: 12px 14px; border: 1px solid var(--border); border-radius: 12px; background: var(--panel); list-style: none; display: none; }
+.map-fold > summary::-webkit-details-marker { display: none; }
+.map-fold > summary::after { content: "Show"; float: right; font-weight: 600; font-size: 0.85rem; color: var(--muted); }
+.map-fold[open] > summary::after { content: "Hide"; }
+.map-fold > summary small { display: block; font-weight: 400; color: var(--muted); font-size: 0.88rem; margin-top: 2px; }
+@media (max-width: 960px) { .map-fold > summary { display: block; } .map-fold[open] > summary { margin-bottom: 10px; } }
+.home .doors { margin-top: 24px; }
+.wfmap.compact .wf-lane-orca span, .wfmap.compact .wf-lane-printer span { left: 12px; right: auto; }

diff --git a/site/guide/public/assets/guide.js b/site/guide/public/assets/guide.js
@@ -132,6 +132,10 @@ for (const bar of $$(".filters")) {
   });
 }
 
+/* ---------- the home map is folded on phones (its stages stay reachable by opening it) ---------- */
+const fold = $(".map-fold");
+if (fold && matchMedia("(max-width: 960px)").matches) fold.open = false;
+
 /* ---------- start ---------- */
 initFigures(document);
 initExamples(document);

diff --git a/site/guide/EVIDENCE.md b/site/guide/EVIDENCE.md
@@ -97,7 +97,7 @@ These are recorded for the maintainer; none is described in the guide as working
 |---|---|
 | `node tools/build.mjs` (content, screenshots, alt text, hotspot positions and overlaps, every link target, every example answer, privacy lint) | 6 stages, 27 tasks, 23 warnings, 4 examples, 30 screenshots, 56 searchable pages, no problems |
 | `node tools/check.mjs` (links, ids, alt text, no third-party requests, no inline script or style, WCAG contrast of every colour pair in both themes) | 49/49 |
-| `node tools/e2e.mjs` (Edge, desktop 1280 px and phone 390 px, dark and light, strict Content-Security-Policy, plus a no-JavaScript run): every page by deep link, every old lesson link, search (results, excerpt, empty state, suggestions, `/` shortcut), task and warning filters, all four examples including a deliberate wrong answer, viewer focus handling, numbered notes, keyboard-only paths, theme switch, wide fallback font, overflow, console errors | 1426/1426 |
+| `node tools/e2e.mjs` (Edge, desktop 1280 px and phone 390 px, dark and light, strict Content-Security-Policy, plus a no-JavaScript run): home order and the folding map, no collisions in the workflow map (also with a wide fallback font), every page by deep link, every old lesson link, search (results, excerpt, empty state, suggestions, `/` shortcut), task and warning filters, all four examples including a deliberate wrong answer, viewer focus handling, numbered notes, keyboard-only paths, theme switch, wide fallback font, overflow, console errors | 1454/1454 |
 | `.github/workflows/guide-ci.yml` on GitHub-hosted Linux Chrome | not yet run (needs the pull request) |
 | `node tools/check.mjs --online` | not run (needs the network) |
 | Desktop / backend test suites | not run: this change touches only `site/guide/` and the capture tooling, not Studio itself |
